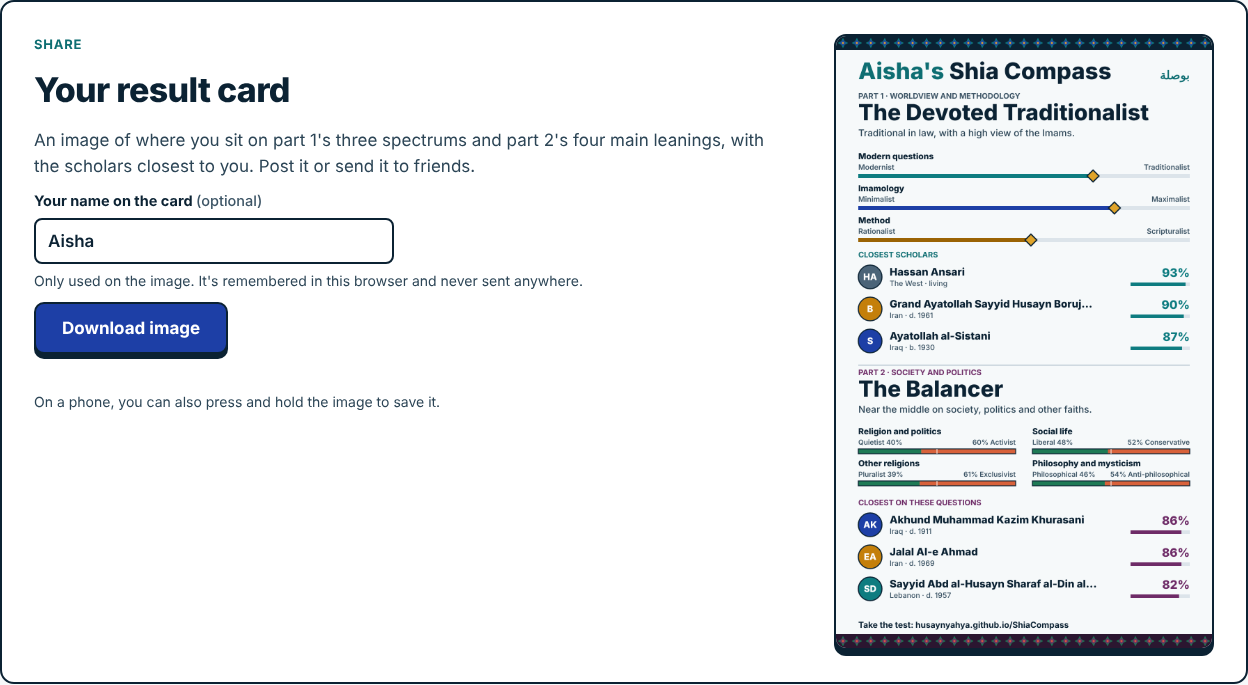
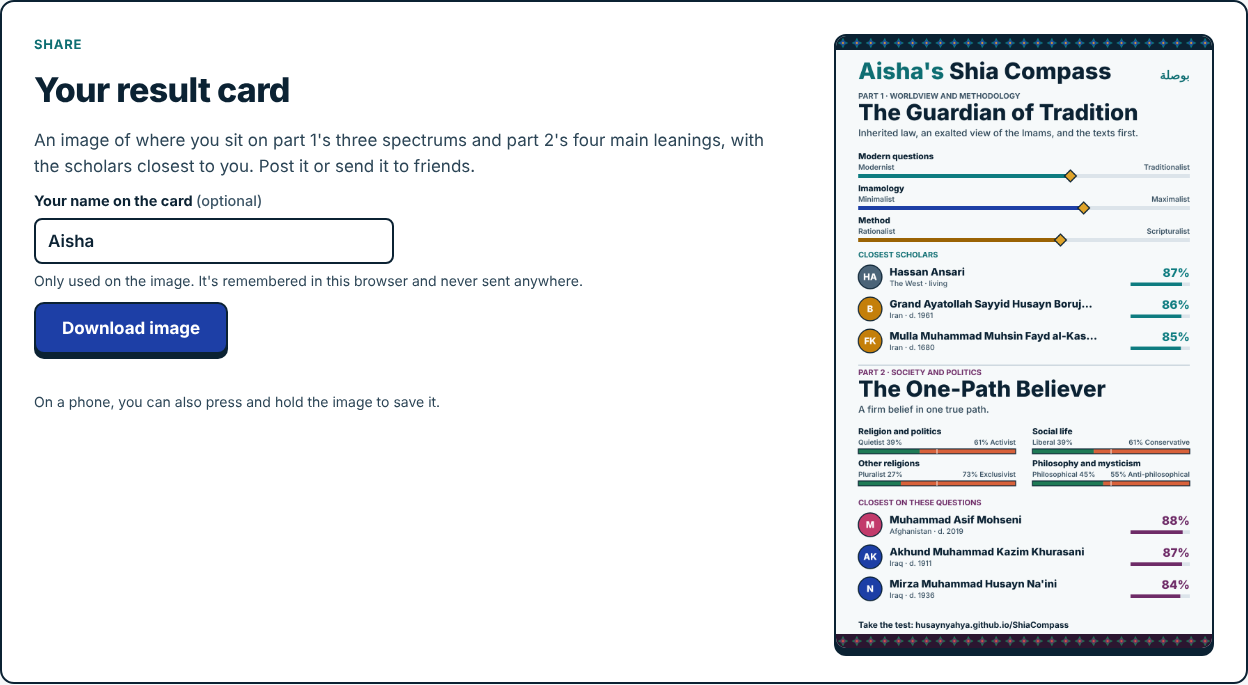
Scoring: ideal-point model
Each statement now has a position (where a Neutral answer sits on its
spectrum). A person's score is the point that best explains all their answers,
so disagreeing with an extreme statement no longer drags them to the other
end, and agreeing with a widely shared one no longer pushes them far.
The analysis script uses the same scoring, and questions.json carries the
positions so they can later be estimated from real answers.

Claude-Session: https://claude.ai/code/session_01EpMsv99ZHQQoQ88sF9SGJg

diff --git a/index.html b/index.html
@@ -1704,15 +1704,32 @@ $("tNext").addEventListener("click",()=>{
   saveLocal(); autoShare();
   go("insights");
 });
+/* ---- Scoring: an ideal-point model ----
+   Each statement has a position on its spectrum (B1/B2): where someone who answers Neutral to it would stand.
+   Extreme statements sit near their own end, widely shared ones toward the other end. A person's position on a
+   spectrum is the point that best explains all their answers together, so disagreeing with an extreme statement
+   barely moves you, while agreeing with one is strong evidence. Positions are estimates for now; once enough people
+   have taken the test, analysis/patterns.py can estimate them from the real answers. */
+const B1={"0": 0.2, "3": 0, "6": -0.3, "9": -0.1, "12": 0, "15": -0.2, "18": -0.3, "21": -0.4, "24": 0.2, "27": 0.4, "30": 0.1, "33": 0, "36": 0.4, "39": 0.4, "42": 0.3, "45": 0.3, "48": 0.2, "49": 0.2, "1": -0.2, "4": 0.2, "7": -0.2, "10": -0.1, "13": -0.2, "16": 0.1, "22": -0.3, "25": 0, "28": -0.3, "31": -0.1, "34": 0.3, "37": -0.1, "40": 0.3, "43": 0.1, "46": 0.2, "50": -0.1, "2": 0.1, "5": 0.3, "8": 0.2, "11": -0.3, "14": 0.2, "17": 0.3, "20": -0.1, "23": 0.2, "26": 0, "29": 0.3, "32": 0.4, "35": 0.4, "38": 0.2, "44": 0.2, "47": -0.2};   // part 1, by stored answer index
+const B2={"0": 0.4, "10": 0.3, "21": -0.3, "31": 0.2, "68": 0.2, "1": 0.2, "11": 0, "22": 0.2, "32": 0, "63": 0.6, "2": 0, "12": 0.4, "23": 0.4, "33": -0.2, "3": 0, "14": 0.6, "35": 0.4, "4": 0, "15": 0, "25": 0.3, "36": 0.2, "61": 0.1, "62": -0.5, "5": 0.2, "16": 0.3, "26": 0.5, "37": 0.4, "7": -0.2, "17": 0, "28": 0.3, "38": 0.1, "65": -0.3, "8": 0.4, "18": 0.3, "29": 0.3, "39": 0.4, "64": 0.6, "9": -0.2, "19": -0.3, "30": 0.1, "40": 0.3, "42": 0.4, "51": 0, "43": -0.2, "46": 0, "55": 0, "47": 0, "56": 0, "60": 0.3, "71": 0.1, "48": -0.2, "57": 0, "70": 0.3, "49": 0, "67": 0.1, "50": 0, "53": 0, "45": 0.3, "54": 0, "59": 0};   // part 2, by stored answer index
+const IP_TAU=0.5, IP_PRIOR=0.25;   // how sharply answers flip around a statement's position; pull toward the centre when answers are few
+function idealPoint(items){
+  if(!items.length) return undefined;
+  let best=0,bestL=Infinity;
+  for(let t=-100;t<=100;t++){ const x=t/100; let L=IP_PRIOR*x*x;
+    for(const it of items){ const d=it.a-Math.tanh(it.k*(x-it.b)/IP_TAU); L+=d*d; }
+    if(L<bestL){ bestL=L; best=x; } }
+  return best;
+}
 function score(){
-  const sum={m:0,i:0,e:0},n={m:0,i:0,e:0};
-  QS.forEach((q,j)=>{ if(q.x||answers[j]===null) return; sum[q.a]+=q.k*((answers[j]-50)/50); n[q.a]++;});
-  user={m:sum.m/n.m,i:sum.i/n.i,e:sum.e/n.e};
+  const items={m:[],i:[],e:[]};
+  QS.forEach((q,j)=>{ if(q.x||answers[j]===null) return; items[q.a].push({a:(answers[j]-50)/50,k:q.k,b:B1[j]??0}); });
+  user={m:idealPoint(items.m),i:idealPoint(items.i),e:idealPoint(items.e)};
 }
 function score2(){
-  const sum={},n={};
-  Q2.forEach((q,j)=>{ const v=answers2[j]; if(!q.a||q.x||v===null) return; sum[q.a]=(sum[q.a]||0)+q.k*((v-50)/50); n[q.a]=(n[q.a]||0)+1; });
-  user2={}; K2.forEach(a=>{ if(n[a]) user2[a]=sum[a]/n[a]; });
+  const items={};
+  Q2.forEach((q,j)=>{ const v=answers2[j]; if(!q.a||q.x||q.o||v===null) return; (items[q.a]=items[q.a]||[]).push({a:(v-50)/50,k:q.k,b:B2[j]??0}); });
+  user2={}; K2.forEach(a=>{ if(items[a]&&items[a].length) user2[a]=idealPoint(items[a]); });
 }
 
 /* ================= INSIGHTS ================= */

diff --git a/analysis/patterns.py b/analysis/patterns.py
@@ -61,6 +61,16 @@ def load(path):
     return rows
 
 
+def ideal_point(items, tau=0.5, prior=0.25):
+    """Same scoring as the site: the spectrum position that best explains all the answers, given each
+    statement's own position b (where a Neutral answer sits)."""
+    xs = np.linspace(-1, 1, 201)
+    loss = prior * xs ** 2
+    for a, k, b in items:
+        loss = loss + (a - np.tanh(k * (xs - b) / tau)) ** 2
+    return float(xs[int(np.argmin(loss))])
+
+
 def demo(n=600, seed=7):
     """Made-up respondents with a few planted links, so the report has something to find."""
     rng = np.random.default_rng(seed)
@@ -103,13 +113,12 @@ def axis_scores(rows):
             ans = r[key]
             if ans is None:
                 continue
-            tot, cnt = {}, {}
+            items = {}
             for q, v in zip(Q[part], ans):
-                if not q["axis"] or q["type"] != "slider" or v is None:
+                if not q["axis"] or q["type"] != "slider" or v is None or q.get("retired"):
                     continue
-                tot[q["axis"]] = tot.get(q["axis"], 0) + q["key"] * (v - 50) / 50
-                cnt[q["axis"]] = cnt.get(q["axis"], 0) + 1
-            s.update({a: tot[a] / cnt[a] for a in tot})
+                items.setdefault(q["axis"], []).append(((v - 50) / 50, q["key"], q.get("b", 0)))
+            s.update({a: ideal_point(it) for a, it in items.items()})
         recs.append(s)
     return pd.DataFrame(recs, columns=list(AXES))
 
